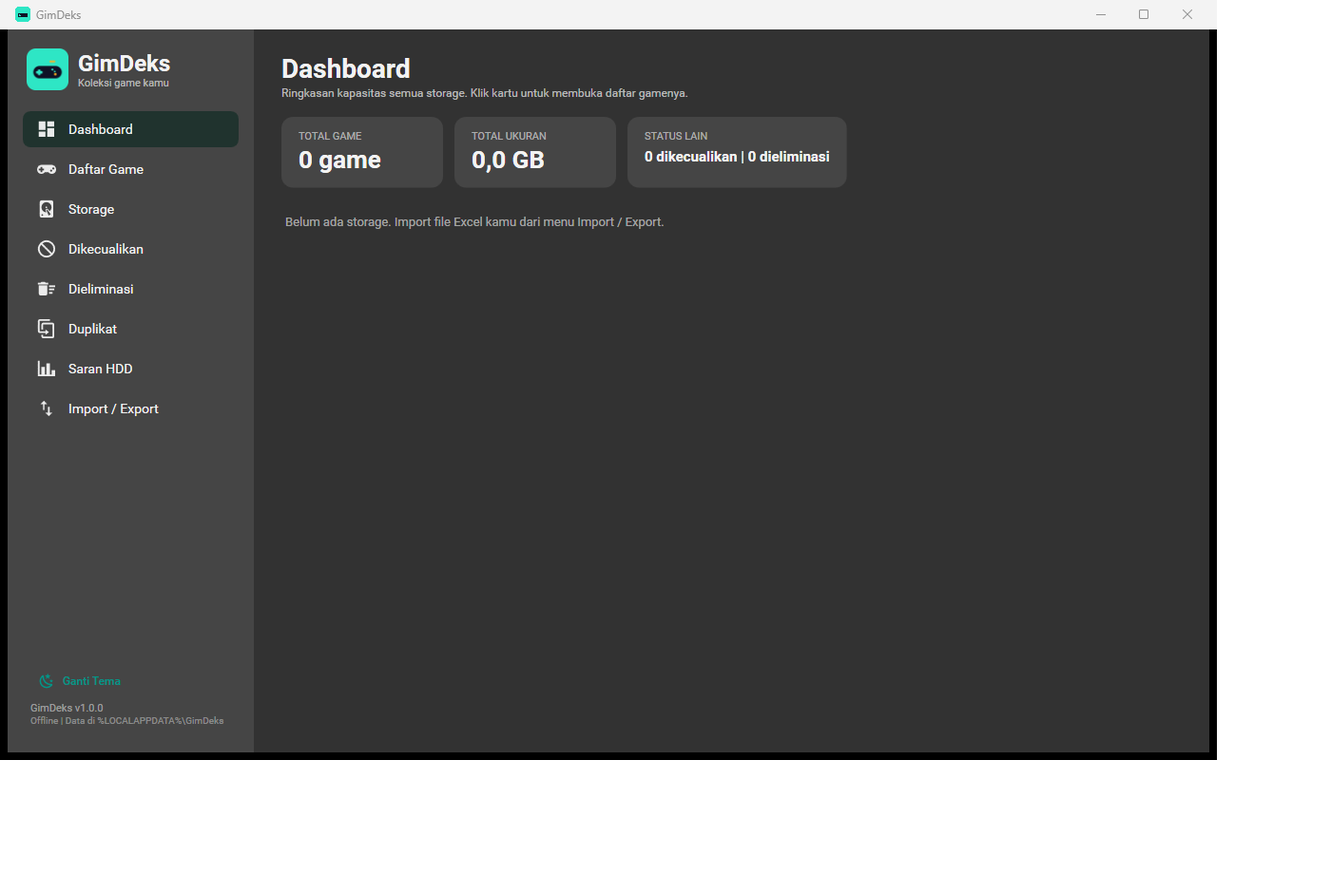
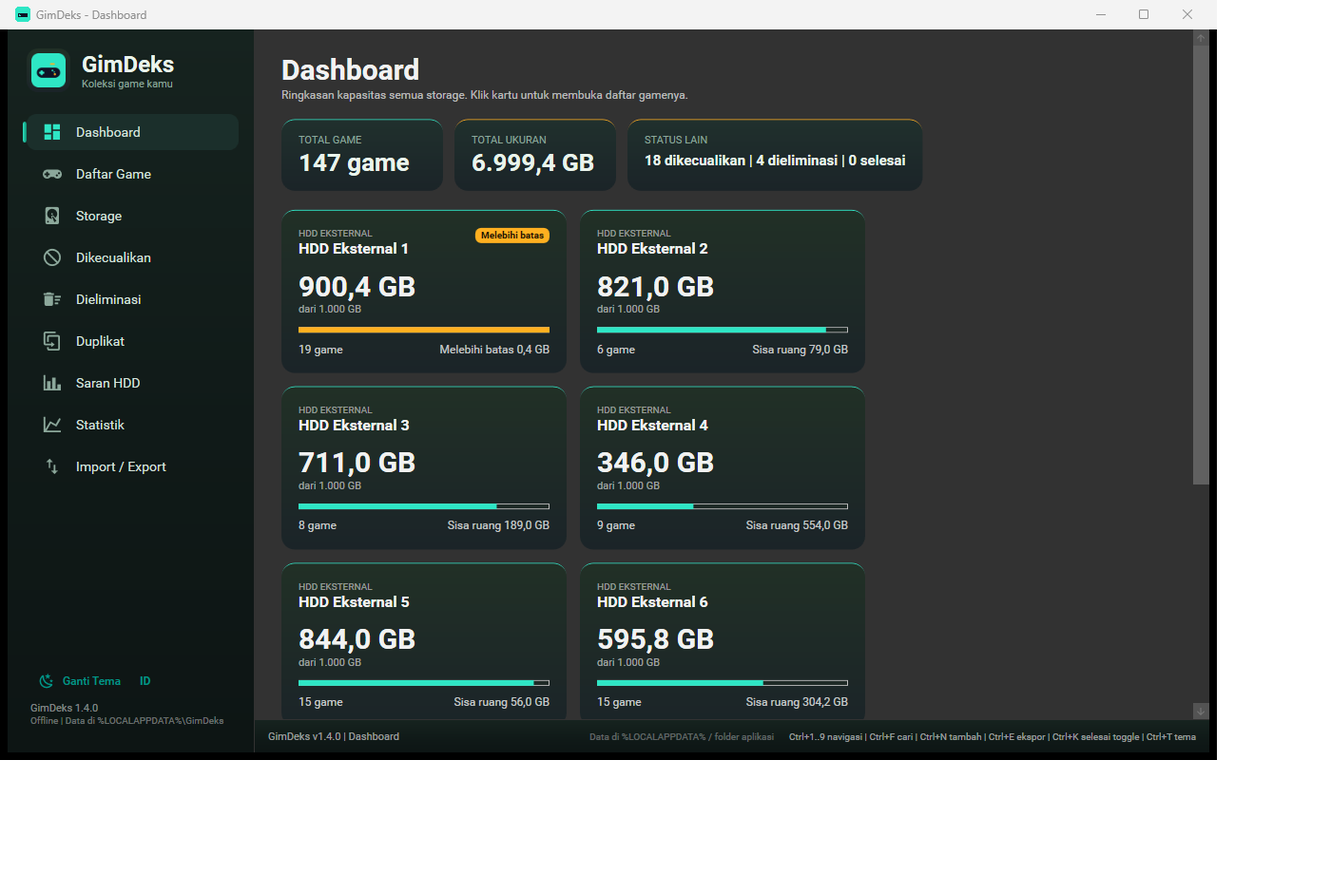
feat: visual refresh (v1.4.0) (#32)
Darker gradient sidebar, teal-accented active navigation pill, glow
subtle on hover, cards carry gradient fills with a 1px accent line,
page headings in 30px semi-bold, empty state shows the wordmark with
the import call to action, brand assets ship inside the release
artifact. Cover assignment via drag-and-drop onto a game cell, remove
cover per game, and Ctrl+K toggles played through on the selection.

diff --git a/src/GimDeks.App/Views/MainWindow.xaml b/src/GimDeks.App/Views/MainWindow.xaml
@@ -24,6 +24,7 @@
         <KeyBinding Modifiers="Ctrl" Key="E" Command="{Binding ExportCommand}" />
         <KeyBinding Modifiers="Ctrl" Key="N" Command="{Binding AddGameCommand}" />
         <KeyBinding Modifiers="Ctrl" Key="T" Command="{Binding ToggleThemeCommand}" />
+        <KeyBinding Modifiers="Ctrl" Key="K" Command="{Binding ToggleSelesaiCommand}" />
         <KeyBinding Modifiers="Ctrl" Key="D1" Command="{Binding NavigateCommand}" CommandParameter="{x:Static vm:Page.Dashboard}" />
         <KeyBinding Modifiers="Ctrl" Key="D2" Command="{Binding NavigateCommand}" CommandParameter="{x:Static vm:Page.GameList}" />
         <KeyBinding Modifiers="Ctrl" Key="D3" Command="{Binding NavigateCommand}" CommandParameter="{x:Static vm:Page.Storage}" />
@@ -72,7 +73,7 @@
         </Grid.ColumnDefinitions>
 
         <Border Grid.Column="0"
-                Background="{StaticResource GimDeksSidebar}"
+                Background="{StaticResource GimDeksSidebarGradient}"
                 BorderBrush="{DynamicResource MaterialDesign.Brush.Separator}"
                 BorderThickness="0,0,1,0">
             <Grid Margin="16">
@@ -84,10 +85,12 @@
 
                 <StackPanel Grid.Row="0" Margin="4,4,4,20">
                     <StackPanel Orientation="Horizontal" VerticalAlignment="Center">
-                        <Image Source="pack://siteoforigin:,,,/assets/gimdeks-mark.png" Width="44" Height="44" RenderOptions.BitmapScalingMode="HighQuality" />
-                        <StackPanel Margin="10,0,0,0" VerticalAlignment="Center">
-                            <TextBlock Text="GimDeks" FontSize="24" FontWeight="Bold" />
-                            <TextBlock Text="{DynamicResource Ui_App_Subtitle}" FontSize="11" Opacity="0.65" />
+                        <Border Width="46" Height="46" CornerRadius="12" Background="{StaticResource GimDeksCardGradient}" Padding="5">
+                            <Image Source="pack://siteoforigin:,,,/assets/gimdeks-mark.png" Width="36" Height="36" RenderOptions.BitmapScalingMode="HighQuality" />
+                        </Border>
+                        <StackPanel Margin="12,0,0,0" VerticalAlignment="Center">
+                            <TextBlock Text="GimDeks" FontSize="24" FontWeight="Bold" Foreground="#EAF4EC" />
+                            <TextBlock Text="{DynamicResource Ui_App_Subtitle}" FontSize="11" Foreground="#8CA89B" />
                         </StackPanel>
                     </StackPanel>
                 </StackPanel>
@@ -102,17 +105,28 @@
                          HorizontalContentAlignment="Stretch">
                     <ListBox.ItemTemplate>
                         <DataTemplate>
-                            <StackPanel Orientation="Horizontal" Margin="6,2">
-                                <materialDesign:PackIcon Kind="{Binding IconKind}" Width="22" Height="22" VerticalAlignment="Center" />
-                                <TextBlock FontSize="14" Margin="12,0,0,0" VerticalAlignment="Center"
+                            <StackPanel Orientation="Horizontal" Margin="8,1">
+                                <materialDesign:PackIcon Kind="{Binding IconKind}" Width="22" Height="22" VerticalAlignment="Center">
+                                    <materialDesign:PackIcon.Style>
+                                        <Style TargetType="materialDesign:PackIcon">
+                                            <Setter Property="Foreground" Value="#8CA89B" />
+                                            <Style.Triggers>
+                                                <DataTrigger Binding="{Binding RelativeSource={RelativeSource AncestorType=ListBoxItem}, Path=IsSelected}" Value="True">
+                                                    <Setter Property="Foreground" Value="{StaticResource GimDeksTileTeal}" />
+                                                </DataTrigger>
+                                            </Style.Triggers>
+                                        </Style>
+                                    </materialDesign:PackIcon.Style>
+                                </materialDesign:PackIcon>
+                                <TextBlock FontSize="14" Margin="14,0,0,0" VerticalAlignment="Center" Foreground="#D5E5DC"
                                            Text="{Binding LabelKey, Converter={StaticResource LocKeyConverter}}" />
                             </StackPanel>
                         </DataTemplate>
                     </ListBox.ItemTemplate>
                     <ListBox.ItemContainerStyle>
                         <Style TargetType="ListBoxItem">
-                            <Setter Property="Padding" Value="8,6" />
-                            <Setter Property="Margin" Value="0,2" />
+                            <Setter Property="Padding" Value="8,7" />
+                            <Setter Property="Margin" Value="0,3" />
                             <Setter Property="AutomationProperties.Name" Value="{Binding LabelKey, Converter={StaticResource LocKeyConverter}}" />
                             <Setter Property="Template">
                                 <Setter.Value>
@@ -122,19 +136,20 @@
                                                 <ColumnDefinition Width="4" />
                                                 <ColumnDefinition Width="*" />
                                             </Grid.ColumnDefinitions>
-                                            <Border x:Name="Accent" Grid.Column="0" CornerRadius="2"
-                                                    Background="Transparent" Margin="0,6" VerticalAlignment="Stretch" />
-                                            <Border x:Name="Root" Grid.Column="1" CornerRadius="8" Background="Transparent" Padding="{TemplateBinding Padding}">
+                                            <Border x:Name="AccentBorder" Grid.Column="0" CornerRadius="2"
+                                                    Background="Transparent" Margin="0,8" VerticalAlignment="Stretch" />
+                                            <Border x:Name="Root" Grid.Column="1" CornerRadius="10" Background="Transparent"
+                                                    BorderThickness="0" Padding="{TemplateBinding Padding}">
                                                 <ContentPresenter />
                                             </Border>
                                         </Grid>
                                         <ControlTemplate.Triggers>
                                             <Trigger Property="IsSelected" Value="True">
-                                                <Setter TargetName="Root" Property="Background" Value="#20332E" />
-                                                <Setter TargetName="Accent" Property="Background" Value="#2EE6C5" />
+                                                <Setter TargetName="Root" Property="Background" Value="{StaticResource GimDeksAccentSoft}" />
+                                                <Setter TargetName="AccentBorder" Property="Background" Value="{StaticResource GimDeksAccentLine}" />
                                             </Trigger>
                                             <Trigger Property="IsMouseOver" Value="True">
-                                                <Setter TargetName="Root" Property="Background" Value="#243B34" />
+                                                <Setter TargetName="Root" Property="Background" Value="{StaticResource GimDeksCardAlt}" />
                                             </Trigger>
                                         </ControlTemplate.Triggers>
                                     </ControlTemplate>
@@ -197,7 +212,7 @@
 
             <ContentControl Grid.Row="1" Content="{Binding CurrentViewModel}" Margin="0" />
 
-            <Border Grid.Row="2" Background="{StaticResource GimDeksSidebar}"
+            <Border Grid.Row="2" Background="{StaticResource GimDeksSidebarGradient}"
                     BorderBrush="{DynamicResource MaterialDesign.Brush.Separator}" BorderThickness="0,1,0,0">
                 <Grid Margin="14,4" Height="26">
                     <Grid.ColumnDefinitions>
@@ -212,7 +227,7 @@
             </Border>
         </Grid>
 
-        <Border Grid.Column="0" Grid.ColumnSpan="2" Background="#C80F1226"
+        <Border Grid.Column="0" Grid.ColumnSpan="2" Background="{StaticResource GimDeksHeroGradient}"
                 Visibility="{Binding IsDropTargetActive, Converter={StaticResource BooleanToVisibilityConverter}}"
                 AllowDrop="True"
                 DragOver="Overlay_OnDragOver"

diff --git a/src/GimDeks.App/Views/DashboardPage.xaml b/src/GimDeks.App/Views/DashboardPage.xaml
@@ -5,30 +5,27 @@
              xmlns:vm="clr-namespace:GimDeks.App.ViewModels">
     <ScrollViewer VerticalScrollBarVisibility="Auto">
         <StackPanel Margin="28,24">
-            <TextBlock Text="{DynamicResource Ui_Dashboard_Title}" FontSize="28" FontWeight="Bold" />
+            <TextBlock Text="{DynamicResource Ui_Dashboard_Title}" FontSize="30" FontWeight="SemiBold" />
             <TextBlock Text="{DynamicResource Ui_Dashboard_Subtitle}"
                        Opacity="0.7" Margin="0,2,0,18" />
 
             <StackPanel Orientation="Horizontal" Margin="0,0,0,20">
-                <Border Background="{DynamicResource MaterialDesign.Brush.Card.Background}"
-                        CornerRadius="12" Padding="18,14" Margin="0,0,12,0" MinWidth="170">
+                <Border Background="{StaticResource GimDeksCardAltGradient}" CornerRadius="14" Padding="18,14" Margin="0,0,12,0" MinWidth="170" BorderThickness="0,1,0,0" BorderBrush="{StaticResource GimDeksTileTeal}">
                     <StackPanel>
-                        <TextBlock Text="{DynamicResource Ui_Dashboard_TotalGames}" FontSize="11" Opacity="0.6" />
-                        <TextBlock Text="{Binding TotalGamesText}" FontSize="26" FontWeight="Bold" Margin="0,2,0,0" />
+                        <TextBlock Text="{DynamicResource Ui_Dashboard_TotalGames}" FontSize="11" Foreground="#8CA89B" />
+                        <TextBlock Text="{Binding TotalGamesText}" FontSize="26" FontWeight="Bold" Margin="0,2,0,0" Foreground="#EAF4EC" />
                     </StackPanel>
                 </Border>
-                <Border Background="{DynamicResource MaterialDesign.Brush.Card.Background}"
-                        CornerRadius="12" Padding="18,14" Margin="0,0,12,0" MinWidth="170">
+                <Border Background="{StaticResource GimDeksCardAltGradient}" CornerRadius="14" Padding="18,14" Margin="0,0,12,0" MinWidth="170" BorderThickness="0,1,0,0" BorderBrush="#FFB020">
                     <StackPanel>
-                        <TextBlock Text="{DynamicResource Ui_Dashboard_TotalSize}" FontSize="11" Opacity="0.6" />
-                        <TextBlock Text="{Binding TotalSizeText}" FontSize="26" FontWeight="Bold" Margin="0,2,0,0" />
+                        <TextBlock Text="{DynamicResource Ui_Dashboard_TotalSize}" FontSize="11" Foreground="#8CA89B" />
+                        <TextBlock Text="{Binding TotalSizeText}" FontSize="26" FontWeight="Bold" Margin="0,2,0,0" Foreground="#EAF4EC" />
                     </StackPanel>
                 </Border>
-                <Border Background="{DynamicResource MaterialDesign.Brush.Card.Background}"
-                        CornerRadius="12" Padding="18,14" MinWidth="230">
+                <Border Background="{StaticResource GimDeksCardAltGradient}" CornerRadius="14" Padding="18,14" MinWidth="230" BorderThickness="0,1,0,0" BorderBrush="#FFB020">
                     <StackPanel>
-                        <TextBlock Text="{DynamicResource Ui_Dashboard_OtherStatus}" FontSize="11" Opacity="0.6" />
-                        <TextBlock Text="{Binding ExcludedText}" FontSize="15" FontWeight="SemiBold" Margin="0,6,0,0" />
+                        <TextBlock Text="{DynamicResource Ui_Dashboard_OtherStatus}" FontSize="11" Foreground="#8CA89B" />
+                        <TextBlock Text="{Binding ExcludedText}" FontSize="15" FontWeight="SemiBold" Margin="0,6,0,0" Foreground="#EAF4EC" />
                     </StackPanel>
                 </Border>
             </StackPanel>
@@ -43,12 +40,13 @@
                     <DataTemplate DataType="{x:Type vm:StorageCardItem}">
                         <Button Cursor="Hand"
                                 Style="{x:Null}"
-                                Background="{DynamicResource MaterialDesign.Brush.Card.Background}"
+                                Background="{StaticResource GimDeksCardGradient}"
                                 Foreground="{DynamicResource MaterialDesign.Brush.Foreground}"
                                 Padding="18"
                                 Width="300"
                                 Margin="0,0,14,14"
-                                BorderThickness="0"
+                                BorderThickness="0,1,0,0"
+                                BorderBrush="{StaticResource GimDeksTileTeal}"
                                 Command="{Binding DataContext.OpenStorageCommand, RelativeSource={RelativeSource AncestorType=ItemsControl}}"
                                 CommandParameter="{Binding}"
                                 AutomationProperties.Name="{Binding Storage.Nama}">
@@ -56,6 +54,8 @@
                                 <ControlTemplate TargetType="Button">
                                     <Border Background="{TemplateBinding Background}"
                                             CornerRadius="14" Padding="{TemplateBinding Padding}"
+                                            BorderThickness="{TemplateBinding BorderThickness}"
+                                            BorderBrush="{TemplateBinding BorderBrush}"
                                             TextElement.Foreground="{TemplateBinding Foreground}">
                                         <ContentPresenter />
                                     </Border>
@@ -114,10 +114,11 @@
                 </ItemsControl.ItemTemplate>
             </ItemsControl>
 
-            <StackPanel Visibility="{Binding Storages.Count, Converter={StaticResource CountToVisibilityConverter}}" Margin="4,8,0,0">
-                <TextBlock Text="{DynamicResource Ui_Dashboard_Empty}" Opacity="0.6" FontSize="13" />
+            <StackPanel Visibility="{Binding Storages.Count, Converter={StaticResource CountToVisibilityConverter}}" Margin="4,24,0,0" HorizontalAlignment="Center">
+                <Image Source="pack://siteoforigin:,,,/assets/gimdeks-lockup-teal.png" Width="250" Opacity="0.9" Margin="0,0,0,16" />
+                <TextBlock Text="{DynamicResource Ui_Dashboard_Empty}" Opacity="0.75" FontSize="14" HorizontalAlignment="Center" TextAlignment="Center" />
                 <Button Content="{DynamicResource Ui_Dashboard_ImportNow}" Style="{StaticResource MaterialDesignRaisedButton}"
-                        HorizontalAlignment="Left" Padding="16,6" Margin="0,12,0,0"
+                        HorizontalAlignment="Center" Padding="18,8" FontSize="14" Margin="0,16,0,0"
                         Command="{Binding DataContext.NavigateCommand, RelativeSource={RelativeSource AncestorType=Window}}"
                         CommandParameter="{x:Static vm:Page.ImportExport}" />
             </StackPanel>

diff --git a/src/GimDeks.App/App.xaml b/src/GimDeks.App/App.xaml
@@ -12,9 +12,42 @@
             </ResourceDictionary.MergedDictionaries>
 
             <SolidColorBrush x:Key="GimDeksTileTeal" Color="#2EE6C5" />
+            <SolidColorBrush x:Key="GimDeksTileDeep" Color="#0C2723" />
+            <SolidColorBrush x:Key="GimDeksTileDeepHighlight" Color="#143A34" />
             <SolidColorBrush x:Key="GimDeksInk" Color="#0F1226" />
             <SolidColorBrush x:Key="GimDeksAmber" Color="#FFB020" />
-            <SolidColorBrush x:Key="GimDeksSidebar" Color="#151C1A" />
+            <SolidColorBrush x:Key="GimDeksSidebar" Color="#131F1D" />
+            <SolidColorBrush x:Key="GimDeksCard" Color="#1B2428" />
+            <SolidColorBrush x:Key="GimDeksCardAlt" Color="#1F2B30" />
+            <SolidColorBrush x:Key="GimDeksBorder" Color="#24302E" />
+            <SolidColorBrush x:Key="GimDeksMuted" Color="#7B8C88" />
+            <SolidColorBrush x:Key="GimDeksAccentSoft" Color="#1B2F2B" />
+            <SolidColorBrush x:Key="GimDeksAccentDeep" Color="#0E6B58" />
+            <LinearGradientBrush x:Key="GimDeksHeroGradient" StartPoint="0,0" EndPoint="1,1">
+                <GradientStop Color="#14201D" Offset="0" />
+                <GradientStop Color="#0F1519" Offset="1" />
+            </LinearGradientBrush>
+            <LinearGradientBrush x:Key="GimDeksCardGradient" StartPoint="0,0" EndPoint="0,1">
+                <GradientStop Color="#213026" Offset="0" />
+                <GradientStop Color="#1B2428" Offset="1" />
+            </LinearGradientBrush>
+            <LinearGradientBrush x:Key="GimDeksCardAltGradient" StartPoint="0,0" EndPoint="0,1">
+                <GradientStop Color="#20302D" Offset="0" />
+                <GradientStop Color="#1B2428" Offset="1" />
+            </LinearGradientBrush>
+            <LinearGradientBrush x:Key="GimDeksAccentLine" StartPoint="0,0" EndPoint="1,0">
+                <GradientStop Color="#2EE6C5" Offset="0" />
+                <GradientStop Color="#0E8A6E" Offset="1" />
+            </LinearGradientBrush>
+            <LinearGradientBrush x:Key="GimDeksSidebarGradient" StartPoint="0,0" EndPoint="0,1">
+                <GradientStop Color="#16231F" Offset="0" />
+                <GradientStop Color="#101A18" Offset="0.55" />
+                <GradientStop Color="#0D1514" Offset="1" />
+            </LinearGradientBrush>
+            <RadialGradientBrush x:Key="GimDeksCardGlow" Center="0.5,0.5" RadiusX="0.8" RadiusY="0.8">
+                <GradientStop Color="#12E6C4" Offset="0" />
+                <GradientStop Color="#00000000" Offset="1" />
+            </RadialGradientBrush>
             <views:CountToVisibilityConverter x:Key="CountToVisibilityConverter" />
             <views:CountToVisibilityInverseConverter x:Key="CountToVisibilityInverseConverter" />
             <views:InverseBooleanToVisibilityConverter x:Key="InverseBooleanToVisibilityConverter" />
@@ -23,11 +56,17 @@
             <BooleanToVisibilityConverter x:Key="BooleanToVisibilityConverter" />
 
             <Style TargetType="UserControl">
+                <Setter Property="RenderTransform">
+                    <Setter.Value>
+                        <TranslateTransform Y="20" />
+                    </Setter.Value>
+                </Setter>
                 <Style.Triggers>
                     <EventTrigger RoutedEvent="Loaded">
                         <BeginStoryboard>
                             <Storyboard>
-                                <DoubleAnimation Duration="0:0:0.18" From="0" To="1" Storyboard.TargetProperty="Opacity" />
+                                <DoubleAnimation Duration="0:0:0.22" From="0" To="1" Storyboard.TargetProperty="Opacity" />
+                                <DoubleAnimation Duration="0:0:0.25" From="20" To="0" Storyboard.TargetProperty="RenderTransform.Y" />
                             </Storyboard>
                         </BeginStoryboard>
                     </EventTrigger>

diff --git a/src/GimDeks.App/Resources/Strings.id.xaml b/src/GimDeks.App/Resources/Strings.id.xaml
@@ -19,9 +19,9 @@
   <sys:String x:Key="Ui_ExcelChanged_Text">File Excel yang diimport sudah berubah di luar aplikasi. Impor ulang?</sys:String>
   <sys:String x:Key="Ui_ExcelChanged_ImportNow">Impor Sekarang</sys:String>
   <sys:String x:Key="Ui_ExcelChanged_Dismiss">Abaikan</sys:String>
-  <sys:String x:Key="Ui_StatusBar_Nav">Ctrl+1..9 navigasi | Ctrl+F cari | Ctrl+T tema</sys:String>
+  <sys:String x:Key="Ui_StatusBar_Nav">Ctrl+1..9 navigasi | Ctrl+F cari | Ctrl+K selesai</sys:String>
   <sys:String x:Key="Ui_StatusBar_Storage">Data di %LOCALAPPDATA% / folder aplikasi</sys:String>
-  <sys:String x:Key="Ui_ShortcutHint">Ctrl+1..9 navigasi | Ctrl+F cari | Ctrl+T tema</sys:String>
+  <sys:String x:Key="Ui_ShortcutHint">Ctrl+1..9 navigasi | Ctrl+F cari | Ctrl+N tambah | Ctrl+E ekspor | Ctrl+K selesai toggle | Ctrl+T tema</sys:String>
   <sys:String x:Key="Ui_Dashboard_Title">Dashboard</sys:String>
   <sys:String x:Key="Ui_Dashboard_Subtitle">Ringkasan kapasitas semua storage. Klik kartu untuk membuka daftar gamenya.</sys:String>
   <sys:String x:Key="Ui_Dashboard_TotalGames">TOTAL GAME</sys:String>
@@ -302,6 +302,13 @@ Data yang dikirim ke internet hanya judul game. Lanjutkan?</sys:String>
   <sys:String x:Key="Ui_Import_ExportCsv">Ekspor ke CSV...</sys:String>
   <sys:String x:Key="Ui_Import_ExportCsvTitle">Ekspor ke CSV</sys:String>
   <sys:String x:Key="Ui_Import_ExportCsvFailed">Ekspor CSV gagal: {0}</sys:String>
+  <sys:String x:Key="Ui_Button_RemoveCover">Hapus Cover</sys:String>
+  <sys:String x:Key="Ui_Button_RemoveCoverTooltip">Hapus cover yang tersimpan di lokal</sys:String>
+  <sys:String x:Key="Ui_Button_CoverRemoved">Cover dihapus.</sys:String>
+  <sys:String x:Key="Ui_Button_CoverNoCover">Tidak ada cover lokal untuk game ini.</sys:String>
+  <sys:String x:Key="Ui_Cover_DroppedSave">Cover disimpan untuk {0}.</sys:String>
+  <sys:String x:Key="Ui_Cover_DroppedFailed">Gagal menyimpan cover: {0}</sys:String>
+  <sys:String x:Key="Ui_Column_SelesaiTooltip">Tandai atau batalkan game terpilih sebagai selesai main</sys:String>
   <sys:String x:Key="Ui_Drop_Title">Lepaskan untuk Impor</sys:String>
   <sys:String x:Key="Ui_Drop_Body">Lepaskan Koleksi_Game.xlsx untuk impor dengan pratinjau.</sys:String>
   <sys:String x:Key="Ui_Duplicates_EliminateTitle">Eliminasi Duplikat</sys:String>

diff --git a/src/GimDeks.App/Resources/Strings.en.xaml b/src/GimDeks.App/Resources/Strings.en.xaml
@@ -19,9 +19,9 @@
   <sys:String x:Key="Ui_ExcelChanged_Text">The imported Excel file changed outside the app. Re-import?</sys:String>
   <sys:String x:Key="Ui_ExcelChanged_ImportNow">Import Now</sys:String>
   <sys:String x:Key="Ui_ExcelChanged_Dismiss">Dismiss</sys:String>
-  <sys:String x:Key="Ui_StatusBar_Nav">Ctrl+1..9 navigate | Ctrl+F search | Ctrl+T theme</sys:String>
+  <sys:String x:Key="Ui_StatusBar_Nav">Ctrl+1..9 navigate | Ctrl+F search | Ctrl+K played</sys:String>
   <sys:String x:Key="Ui_StatusBar_Storage">Data in %LOCALAPPDATA% / app folder</sys:String>
-  <sys:String x:Key="Ui_ShortcutHint">Ctrl+1..9 navigate | Ctrl+F search | Ctrl+T theme</sys:String>
+  <sys:String x:Key="Ui_ShortcutHint">Ctrl+1..9 navigate | Ctrl+F search | Ctrl+N add | Ctrl+E export | Ctrl+K toggle played | Ctrl+T theme</sys:String>
   <sys:String x:Key="Ui_Dashboard_Title">Dashboard</sys:String>
   <sys:String x:Key="Ui_Dashboard_Subtitle">Capacity overview of every storage. Click a card to open its game list.</sys:String>
   <sys:String x:Key="Ui_Dashboard_TotalGames">TOTAL GAMES</sys:String>
@@ -302,6 +302,13 @@ Only the game title is sent to the internet. Continue?</sys:String>
   <sys:String x:Key="Ui_Import_ExportCsv">Export to CSV...</sys:String>
   <sys:String x:Key="Ui_Import_ExportCsvTitle">Export to CSV</sys:String>
   <sys:String x:Key="Ui_Import_ExportCsvFailed">CSV export failed: {0}</sys:String>
+  <sys:String x:Key="Ui_Button_RemoveCover">Remove Cover</sys:String>
+  <sys:String x:Key="Ui_Button_RemoveCoverTooltip">Delete the locally stored cover</sys:String>
+  <sys:String x:Key="Ui_Button_CoverRemoved">Cover removed.</sys:String>
+  <sys:String x:Key="Ui_Button_CoverNoCover">No local cover for this game.</sys:String>
+  <sys:String x:Key="Ui_Cover_DroppedSave">Cover saved for {0}.</sys:String>
+  <sys:String x:Key="Ui_Cover_DroppedFailed">Could not save cover: {0}</sys:String>
+  <sys:String x:Key="Ui_Column_SelesaiTooltip">Mark or unmark selected games as played through</sys:String>
   <sys:String x:Key="Ui_Drop_Title">Drop to Import</sys:String>
   <sys:String x:Key="Ui_Drop_Body">Drop Koleksi_Game.xlsx to import it with a preview.</sys:String>
   <sys:String x:Key="Ui_Duplicates_EliminateTitle">Eliminate Duplicates</sys:String>

diff --git a/src/GimDeks.App/Views/GameEditDialog.xaml b/src/GimDeks.App/Views/GameEditDialog.xaml
@@ -28,6 +28,10 @@
                         Style="{StaticResource MaterialDesignOutlinedButton}" Padding="6,2" FontSize="11"
                         Margin="0,6,0,0" Click="FetchCoverButton_OnClick"
                         ToolTip="{DynamicResource Ui_GameDialog_CoverTooltip}" />
+                <Button x:Name="RemoveCoverButton" Content="{DynamicResource Ui_Button_RemoveCover}"
+                        Style="{StaticResource MaterialDesignFlatButton}" Padding="6,2" FontSize="11"
+                        Margin="0,6,0,0" Click="RemoveCoverButton_OnClick"
+                        ToolTip="{DynamicResource Ui_Button_RemoveCoverTooltip}" />
                 <TextBlock x:Name="CoverHintText" Text="{DynamicResource Ui_GameDialog_CoverNewGame}" FontSize="10" Opacity="0.5" Margin="0,4,0,0" TextAlignment="Center" />
             </StackPanel>
         </Grid>

diff --git a/src/GimDeks.App/Views/GameListPage.xaml b/src/GimDeks.App/Views/GameListPage.xaml
@@ -11,7 +11,7 @@
             <RowDefinition Height="Auto" />
         </Grid.RowDefinitions>
 
-        <TextBlock Grid.Row="0" Text="{DynamicResource Ui_GameList_Title}" FontSize="28" FontWeight="Bold" />
+        <TextBlock Grid.Row="0" Text="{DynamicResource Ui_GameList_Title}" FontSize="30" FontWeight="SemiBold" />
 
         <StackPanel Grid.Row="1" Margin="0,12,0,10">
             <Grid>
@@ -103,6 +103,9 @@
 
         <DataGrid x:Name="GamesGrid" Grid.Row="2"
                   ItemsSource="{Binding Rows}"
+                  AllowDrop="True"
+                  PreviewDragOver="DataGrid_OnPreviewDragOver"
+                  PreviewDrop="DataGrid_OnDrop"
                   AutoGenerateColumns="False"
                   IsReadOnly="True"
                   SelectionMode="Extended"

diff --git a/src/GimDeks.App/Views/StoragePage.xaml b/src/GimDeks.App/Views/StoragePage.xaml
@@ -15,7 +15,7 @@
                 <RowDefinition Height="*" />
                 <RowDefinition Height="Auto" />
             </Grid.RowDefinitions>
-            <TextBlock Grid.Row="0" Text="{DynamicResource Ui_Storage_Title}" FontSize="28" FontWeight="Bold" />
+            <TextBlock Grid.Row="0" Text="{DynamicResource Ui_Storage_Title}" FontSize="30" FontWeight="SemiBold" />
             <ListBox Grid.Row="1" Margin="0,12,0,8"
                      ItemsSource="{Binding Storages}"
                      SelectedItem="{Binding SelectedItem, Mode=TwoWay}"

diff --git a/src/GimDeks.App/Views/StatisticsPage.xaml b/src/GimDeks.App/Views/StatisticsPage.xaml
@@ -5,7 +5,7 @@
              xmlns:vm="clr-namespace:GimDeks.App.ViewModels">
     <ScrollViewer VerticalScrollBarVisibility="Auto">
         <StackPanel Margin="24,20">
-            <TextBlock Text="{DynamicResource Ui_Statistics_Title}" FontSize="28" FontWeight="Bold" />
+            <TextBlock Text="{DynamicResource Ui_Statistics_Title}" FontSize="30" FontWeight="SemiBold" />
             <TextBlock Text="{DynamicResource Ui_Statistics_Subtitle}" Opacity="0.7" Margin="0,2,0,16" />
 
             <StackPanel Orientation="Horizontal" Margin="0,0,0,18">

diff --git a/src/GimDeks.App/Views/ImportExportPage.xaml b/src/GimDeks.App/Views/ImportExportPage.xaml
@@ -5,7 +5,7 @@
              xmlns:vm="clr-namespace:GimDeks.App.ViewModels">
     <ScrollViewer VerticalScrollBarVisibility="Auto">
         <StackPanel Margin="24,20">
-            <TextBlock Text="{DynamicResource Ui_Import_Title}" FontSize="28" FontWeight="Bold" />
+            <TextBlock Text="{DynamicResource Ui_Import_Title}" FontSize="30" FontWeight="SemiBold" />
             <TextBlock Text="{DynamicResource Ui_Import_Subtitle}"
                        Opacity="0.7" Margin="0,2,0,16" />
 

diff --git a/src/GimDeks.App/Views/HddSuggestionPage.xaml b/src/GimDeks.App/Views/HddSuggestionPage.xaml
@@ -11,7 +11,7 @@
         </Grid.RowDefinitions>
 
         <StackPanel Grid.Row="0">
-            <TextBlock Text="{DynamicResource Ui_SaranHdd_Title}" FontSize="28" FontWeight="Bold" />
+            <TextBlock Text="{DynamicResource Ui_SaranHdd_Title}" FontSize="30" FontWeight="SemiBold" />
             <TextBlock Text="{DynamicResource Ui_SaranHdd_Subtitle}"
                        Opacity="0.7" Margin="0,2,0,0" TextWrapping="Wrap" />
         </StackPanel>

diff --git a/src/GimDeks.App/Views/DuplicatesPage.xaml b/src/GimDeks.App/Views/DuplicatesPage.xaml
@@ -13,7 +13,7 @@
         </Grid.RowDefinitions>
 
         <StackPanel Grid.Row="0">
-            <TextBlock Text="{DynamicResource Ui_Duplicates_Title}" FontSize="28" FontWeight="Bold" />
+            <TextBlock Text="{DynamicResource Ui_Duplicates_Title}" FontSize="30" FontWeight="SemiBold" />
             <TextBlock Text="{DynamicResource Ui_Duplicates_Subtitle}"
                        Opacity="0.7" Margin="0,2,0,0" />
         </StackPanel>
